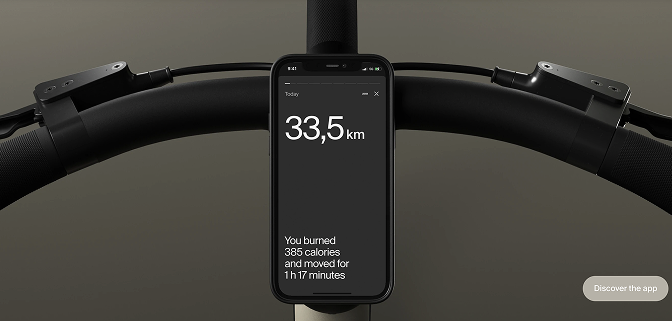
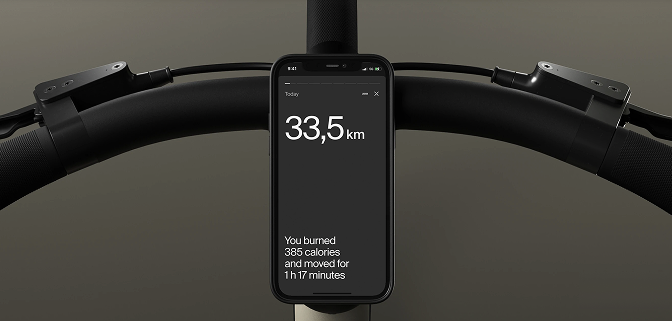
fix issues

Changed region(s): [[0.8438, 0.8411, 1.0, 0.9346]]

diff --git a/index.html b/index.html
@@ -29,12 +29,16 @@
       rel="stylesheet"
       href="src/styles/main.scss"
     />
+    <!-- <link rel="stylesheet" href="https://cdn.jsdelivr.net/npm/simplebar@latest/dist/simplebar.css"/> -->
+    <!-- <script src="https://cdn.jsdelivr.net/npm/simplebar@latest/dist/simplebar.min.js" defer></script> -->
     <script
       src="src/scripts/main.js"
       defer
     ></script>
   </head>
   <body class="page__body">
+
+    <!-- <div data-simplebar="_" class="page__scrollbar"> -->
 
     <header class="page__header header">
 
@@ -50,22 +54,25 @@
             >
           </a>
 
-          <div class="console">
-            <!--
-              In this project I've added the text for screen readers in two different ways,
-              the first one being this visually-hidden selector,
-              the next one is with an aria-label attribute.
-            -->
-            <!-- Last minute design. -->
-            <!-- <div class="console__popup-region"> -->
-            <!-- <span class="console__popup">+1 234 5555-55-55</span> -->
-            <a href="tel: +1 234 5555-55-55" class="console__button console__button--phone">
-              <span utility="visually-hidden">Call</span>
-            </a>
-            <!-- </div> -->
-            <a href="#menu" class="console__button console__button--menu">
-              <span utility="visually-hidden">Menu</span>
-            </a>
+          <div class="top-bar__popup-region">
+            <span
+              class="top-bar__popup"
+            >
+              +1 234 5555-55-55
+            </span>
+            <div class="console">
+              <!--
+                In this project I've added the text for screen readers in two different ways,
+                the first one being this visually-hidden selector,
+                the next one is with an aria-label attribute.
+              -->
+              <a href="tel: +1 234 5555-55-55" class="console__button console__button--phone">
+                <span utility="visually-hidden">Call</span>
+              </a>
+              <a href="#menu" class="console__button console__button--menu">
+                <span utility="visually-hidden">Menu</span>
+              </a>
+            </div>
           </div>
 
         </div>
@@ -183,7 +190,7 @@
               </div>
 
               <div class="product-card__price">
-                2 590
+                $ 2 590
               </div>
 
             </article>
@@ -206,7 +213,7 @@
               </div>
 
               <div class="product-card__price">
-                2 590
+                $ 2 590
               </div>
 
             </article>
@@ -229,7 +236,7 @@
               </div>
 
               <div class="product-card__price">
-                2 590
+                $ 2 590
               </div>
 
             </article>
@@ -369,6 +376,7 @@
                 placeholder="Name (e.g. John)"
                 name="name"
                 aria-label="name"
+                required
               >
 
               <input
@@ -377,6 +385,7 @@
                 placeholder="Email (e.g. john.doe@email.net)"
                 name="email"
                 aria-label="email"
+                required
               >
 
               <textarea
@@ -384,6 +393,7 @@
                 name="message"
                 placeholder="Message"
                 aria-label="message"
+                required
               ></textarea>
 
               <button class="form__submit-button button" type="submit">
@@ -399,18 +409,18 @@
                 <div class="contacts__label">
                   Phone
                 </div>
-                <div class="contacts__info">
+                <a href="tel: +1 234 5555-55-55" class="contacts__info contacts__info--link">
                   +1 234 5555-55-55
-                </div>
+                </a>
               </div>
 
               <div class="contacts__section">
                 <div class="contacts__label">
                   Email
                 </div>
-                <div class="contacts__info">
+                <a href="mailto: hello@miami.com" class="contacts__info contacts__info--link">
                   hello@miami.com
-                </div>
+                </a>
               </div>
 
               <div class="contacts__section">
@@ -441,6 +451,8 @@
     </main>
 
     <footer class="footer"></footer>
+
+    <!-- </div> -->
 
   </body>
 </html>

diff --git a/src/styles/main.scss b/src/styles/main.scss
@@ -32,18 +32,19 @@
 
 /*
   TODO:
-    - grid utility class: grid-template-columns with repeat()
-    - (?) margin is not inherited in product-card__description
-    - (?) button border radius style.
-    - h1 positioning?
-    - animate menu
-    - "footer sticky at the bottom" from the checklist?
-    - burger menu icon animation
-    - desktop phone popup with js?
-    - scrollbar
-    - all the other animations I can think of?
+  - h1 positioning?
+  - how to make elements that are initially invisible also invisible to screen readers without breaking the animation?
+  - more variables.
 
-  TODOs after completion:
+  TODO after completion:
+    - grid utility class: grid-template-columns with repeat()
+    - smarter transition mixin? For our usecases.
     - do we have to use width-container on header?
     - refactor media mixins to handle all three states in one?
+    - burger menu animation is wierd, I want the lines to shrink, not fade.
+    - desktop phone popup with js?
+    - all the other animations I can think of?
+    - more mixins for duplicated code
+    - verify menu appearance animation
+    - scrollbar with JS: get width, add padding.
 */

diff --git a/src/styles/blocks/page.scss b/src/styles/blocks/page.scss
@@ -5,6 +5,12 @@
 
   scroll-behavior: smooth;
 
+  // googled this out; it's to prevent the console shifting when the menu is opened.
+  scrollbar-gutter: stable;
+
+  // SimpleBar
+  // overflow: hidden;
+
   &__body {
     margin: 0;
   }
@@ -13,14 +19,18 @@
     position: fixed;
     inset: 0;
 
-    visibility: hidden;
+    transform: translateX(100%);
+
+    transition-duration: $transition-duration;
+    transition-property: transform;
 
     &:target {
-      visibility: visible;
+      transform: translateX(0%);
     }
   }
 
   &:has(.page__menu:target) {
     overflow: hidden;
+    background-color: $color-light-3;
   }
 }

diff --git a/src/styles/blocks/button.scss b/src/styles/blocks/button.scss
@@ -2,10 +2,13 @@
 @use 'sass:math';
 
 .button {
+  font-family: inherit; // without this the button.form__submit-button.button was Arial. The a.section-details__action.button worked without this.
+
   @include font-style('button-text');
 
   background-color: $color-light-1;
   border: none;
+  cursor: url('../images/cursor/cursor-outline-white.png'), pointer;
 
   padding-inline: $button-padding-inline;
   padding-block: $button-padding-block;
@@ -27,8 +30,4 @@
       box-shadow: 0 0 $button-shadow-blur-size $color-light-1,
     )
   );
-
-  &:hover {
-    cursor: pointer;
-  }
 }

diff --git a/src/styles/blocks/console.scss b/src/styles/blocks/console.scss
@@ -9,6 +9,7 @@
   &__button {
     width: $console-cell-size-mobile;
     aspect-ratio: 1;
+    cursor: url('../images/cursor/cursor-outline-white.png'), pointer;
 
     @include on-tablet {
       width: $console-cell-size-tablet;
@@ -22,7 +23,9 @@
     }
 
     &--menu {
-      background-image: url('../images/icons/icon-burger-menu-off.png');
+      background-image: url('../images/icons/icon-burger-menu-off.svg');
+
+      @include on-hover-smooth((background-image: url('../images/icons/icon-burger-menu-on.svg')))
     }
 
     &--close {

diff --git a/src/styles/blocks/top-bar.scss b/src/styles/blocks/top-bar.scss
@@ -8,4 +8,29 @@
   @include on-tablet {
     height: $top-bar-height-tablet;
   }
+
+  &__popup-region {
+    display: flex;
+    align-items: center;
+  }
+
+  &__popup {
+    @include font-style('popup-text');
+
+    margin-right: 20px;
+    min-width: fit-content;
+    opacity: 0%;
+
+    transition-property: opacity;
+    transition-duration: $transition-duration;
+  }
+
+  @include on-desktop {
+    &:has( .console__button:hover),
+    &:has( .logo-link:hover) {
+      & .top-bar__popup {
+        opacity: 100%;
+      }
+    }
+  }
 }

diff --git a/src/styles/blocks/form.scss b/src/styles/blocks/form.scss
@@ -8,6 +8,7 @@
     padding-block: $input-padding-block;
     background-color: $color-light-2;
     border: none;
+    outline: none;
     border-radius: $fully-rounded-border;
     font: inherit; // ah, gotcha.
 
@@ -15,6 +16,8 @@
   }
 
   &__message {
+    font: inherit;
+
     @include font-style('input-text');
 
     border-radius: $input-textarea-radius;
@@ -23,6 +26,7 @@
     padding-inline: $input-padding-inline;
     padding-block: $input-padding-block;
     border: none;
+    outline: none;
 
     resize: none;
 

diff --git a/src/styles/blocks/footer.scss b/src/styles/blocks/footer.scss
@@ -1,8 +1,14 @@
 .footer {
-  // doesn't work currently
   background-image: url('../images/footer-cover-photo.png');
   background-size: cover;
   background-position: $footer-bg-position;
+
+  // background-attachment: fixed;
+  position: sticky;
+  left: 0;
+  right: 0;
+  bottom: 0;
+  z-index: -1;
 
   height: $footer-height-mobile;
 

diff --git a/src/styles/blocks/nav.scss b/src/styles/blocks/nav.scss
@@ -15,6 +15,7 @@
     text-decoration: none;
     color: inherit;
     position: relative;
+    cursor: url('../images/cursor/cursor-outline-black.png'), pointer;
 
     // @include on-hover-smooth((width: 100%), #{&}::after);
     // it doesn't work with the colons ;(

diff --git a/src/styles/utility/_variables.scss b/src/styles/utility/_variables.scss
@@ -68,6 +68,9 @@ $cta-line-spacing: 16px;
 $cta-action-line-thickness: 1px;
 $cta-action-line-spacing: 8px;
 
+// popup
+//    empty
+
 // main
 $main-padding-top-mobile: 60px;
 $main-padding-top-tablet: 120px;

diff --git a/src/styles/blocks/product-card.scss b/src/styles/blocks/product-card.scss
@@ -76,10 +76,5 @@
     @include font-style('body-xl');
 
     margin-top: $product-card-price-margin;
-
-    &::before {
-      // this should probably be in HTML
-      content: '$ ';
-    }
   }
 }
